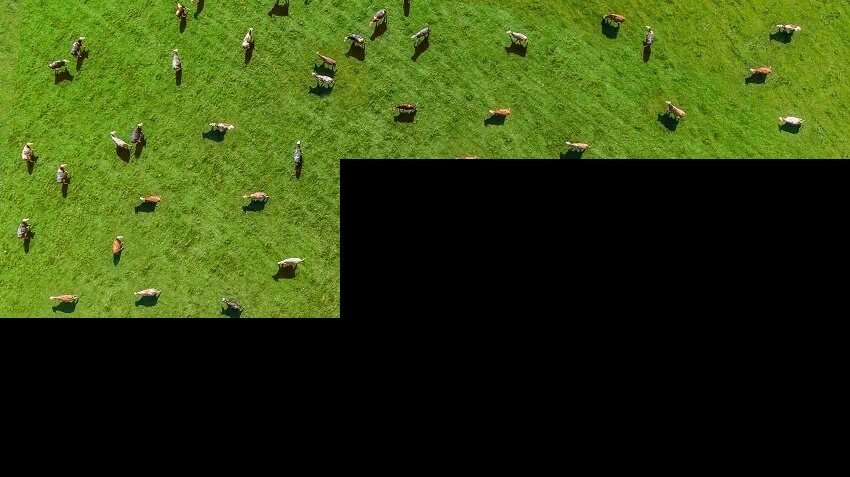
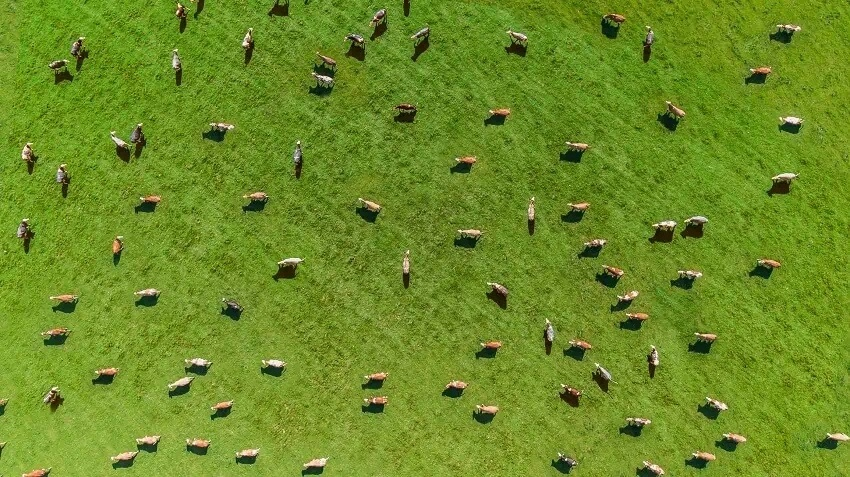
Final update

diff --git a/local_server.py b/local_server.py
@@ -10,20 +10,27 @@ Original file is located at
 
 #4.   Classe Local_server: """
 
+import csv
 import cv2
 from flask import Flask, render_template
 import numpy as np
+import os
 import pickle
 import socket
 import threading
 import time
 
-#HOST_IP = socket.gethostbyname(socket.gethostname()) # Use this if running on local network
-HOST_IP = "127.0.0.1" # Use this if testing via localhost
-HOST_PORT = 12345
+DW_PATH = "datawarehouse.csv"
 FINALIMG_HEIGHT = 477
 FINALIMG_WIDTH = 850
 FINALIMG_CHANNELS = 3
+
+#HOST_IP = socket.gethostbyname(socket.gethostname()) # Use this if running on local network
+HOST_IP = "127.0.0.1" # Use this if testing via localhost
+HOST_PORT = 12345
+
+TILE_ROWS = 3
+TILE_COLUMNS = 5
 
 def tprint(lock, message): # Just so different threads don't mess up stdout when printing
     lock.acquire()
@@ -39,7 +46,6 @@ class LocalServer:
         self.host_socket = socket.socket(family = socket.AF_INET, type = socket.SOCK_STREAM)
         self.host_socket.bind((host, port))
 
-        #self.clients = allowed_clients # Might not be necessary
         self.sockets = {} # Creates dictionary mapping client IP addresses to the threads handling their respective sockets
         self.keep_listening = True # Controls whether or not to keep listening for new connections/data transmissions
 
@@ -48,8 +54,8 @@ class LocalServer:
 
         self.frames = {} # Initializes frame dict from clients
         self.stitched_image = np.zeros((FINALIMG_HEIGHT, FINALIMG_WIDTH, FINALIMG_CHANNELS), dtype = "uint8")
-        self.image_nrows = 3
-        self.image_ncolumns = 5
+        self.image_nrows = TILE_ROWS
+        self.image_ncolumns = TILE_COLUMNS
 
         self.model = model
 
@@ -58,7 +64,7 @@ class LocalServer:
         print("Local_server instance initialized.")
 
     def listen(self):
-        # Asynchronous method
+        # Threaded method
 
         while self.keep_listening is True:
             tprint(self.print_lock, "[LISTEN] Listening for connections...")
@@ -69,8 +75,7 @@ class LocalServer:
             self.sockets[address] = threading.Thread(target = self.receive_data, args = (connection, address))
             tprint(self.print_lock, f"[LISTEN] Created thread to handle {address} connection: {self.sockets[address]}")
             self.sockets[address].start() # Creates and starts new thread to handle connection
-
-            break # Stays here just while testing
+            
         tprint(self.print_lock, "[LISTEN] Stopped listening for connections.")
 
         addresses = list(self.sockets.keys())
@@ -81,7 +86,7 @@ class LocalServer:
         print("[LISTEN] All connection threads closed.")
 
     def receive_data(self, sock, address):
-        # Asynchronous method
+        # Threaded method
         close_connection = False
         peer = sock.getpeername()
         while (self.keep_listening is True) and (close_connection is False):
@@ -122,9 +127,6 @@ class LocalServer:
 
                 elif dtype.decode("utf-8") == "IMG": # Is image?
                     data = pickle.loads(rawdata, fix_imports = True, encoding = "bytes")
-                    #imdecode = cv2.imdecode(data, cv2.IMREAD_COLOR)
-                    #data = np.fromstring(rawdata, dtype = "uint8")
-                    #imdecode = cv2.imdecode(data, cv2.IMWRITE_JPEG_QUALITY)
                     message["IMG"] = data#imdecode
                     sock.sendall("ACK ".encode("utf-8"))
 
@@ -152,47 +154,51 @@ class LocalServer:
         socket.close()
 
     def stitch_images(self):
-        self.threading_lock.acquire()
+        self.threading_lock.acquire() # Acquires lock to read data
         keys = list(self.frames.keys())
-        tprint(self.print_lock, str(keys))
-        for key in keys:
+        for key in keys: # Calculates frame position based on GEO
             tile = self.frames[key]
             tile_shape = tile.shape
             starting_y = int(key[0]) * tile_shape[0]
             starting_x = int(key[1]) * tile_shape[1]
             ending_y = starting_y + tile_shape[0]
             ending_x = starting_x + tile_shape[1]
-            self.stitched_image[starting_y : ending_y, starting_x : ending_x] = tile
-        self.threading_lock.release()
-        cv2.imshow("stitched_image", self.stitched_image)
-        cv2.waitKey()
-        cv2.imwrite("webserver\\webserver_image.jpg", self.stitched_image)
+            self.stitched_image[starting_y : ending_y, starting_x : ending_x] = tile # Places frame in its place
+        self.threading_lock.release() # Releases lock once data has been read
+        cv2.imwrite("webserver\\webserver_image.jpg", self.stitched_image) # Saves resulting image so webservice can use it
 
-    def get_inferences(self, geo, image):
+    def get_inferences(self, geo):
         self.threading_lock.acquire()
-        self.inferences[geo] = self.model.predict(image)
+        image = self.frames.get(geo)
+        self.inferences[geo] = self.model.predict(image) # Gets predictions from model
         self.threading_lock.release()
-        #print(predictions)
 
-    def dump2datawarehouse(self, image, inferences):
-        pass
-    #def send_data(self): # WIP
-    #    pass
+    def dump2datawarehouse(self, geo):
+        self.threading_lock.acquire()
+        image = self.frames.get(geo)
+        inferences = self.inferences.get(geo)
+        self.threading_lock.release()
+        if image is None: # Checks if parameters are valid
+            return False
+        if inferences is None:
+            self.get_inferences(geo)
+            inferences = self.inferences.get(geo)
+        if not os.path.exists(DW_PATH):
+            with open(DW_PATH, mode = "w") as file: # If file doesn't exist
+                pass # Create file and add header
+        # Saves image and appends its path to the csv file alongside its inferences
+        return True
+        
 
     def mainloop(self):
-        #pass
         listening_thread = threading.Thread(target = self.listen)
         listening_thread.start()
 
         while self.keep_listening:
-            time.sleep(2)
+            time.sleep(2) # Delay while waiting for new images
             self.stitch_images()
-            if len(self.frames) == 15:
-                self.keep_listening = False
-
-        #address = list(self.sockets.keys())[0]
-        #self.receive_data(self.sockets[address], address)
-
+            if len(self.frames) == TILE_ROWS * TILE_COLUMNS:
+                self.keep_listening = False # Once all images have been received, stop
 
 app = Flask(__name__, template_folder = "webserver")
 
@@ -204,9 +210,11 @@ def home():
 if __name__ == "__main__":
     print("Running...")
     testserver = LocalServer("model")
+    # Initializes webservice on new thread
+    flaskthread = threading.Thread(target = app.run)
+    flaskthread.start()    
+    # Initializes server mainloop
     testserver.mainloop()
 
-    flaskthread = threading.Thread(target = app.run)
-    flaskthread.start()
     flaskthread.join()
     print("End.")

diff --git a/drones.py b/drones.py
@@ -33,7 +33,7 @@ FILES = ["drone_images\\00.jpg",
          "drone_images\\22.jpg",
          "drone_images\\23.jpg",
          "drone_images\\24.jpg"]
-#FILES = [os.path.abspath(file) for file in FILES]
+
 #HOST_IP = "PASTE HOST IPv4" # Use this if running on local network
 # or use socket.gethostbyname(socket.gethostname()) if running locally
 HOST_IP = "127.0.0.1" # Use this if testing via localhost
@@ -52,7 +52,7 @@ class DroneT0:
 
         self.break_mainloop = False
 
-        self.files = FILES# Image files that we will load and send to the server to test if everything is working
+        self.files = FILES # Image files that we will load and send to the server to test if everything is working
 
         print("DroneT0 instance initialized.")
 
@@ -98,7 +98,6 @@ class DroneT1(DroneT0):
         self.host = host
         self.port = port
         self.socket = socket.socket(family = socket.AF_INET, type = socket.SOCK_STREAM)
-        #self.socket.connect()
 
         print("DroneT1 instance initialized.")
 
@@ -106,23 +105,13 @@ class DroneT1(DroneT0):
         self.socket.connect((self.host, self.port))
 
     def send_data(self):
-        """
-        self.socket.sendall(b"Test1")
-        data = self.socket.recv(1024)
-        print(f"Received {data!r}")
-        """
-
         # Prepare image to be sent
         print("[SEND_DATA] Encoding image...")
         geo, frame = self.frames.popitem()
         encode_param = [int(cv2.IMWRITE_JPEG_QUALITY), 90]
-        #result, imencode = cv2.imencode(".jpg", frame, encode_param)
         imgdata = pickle.dumps(frame, 0)
         img = pickle.loads(imgdata,fix_imports = True, encoding = "bytes")
-        #cv2.imshow("", img)
-        #cv2.waitKey()
-        #imdata = np.array(imencode, dtype = "uint8")
-        #str_imdata = imdata.tostring()
+
         print("[SEND_DATA] Image encoded.")
 
         message = [("GEO", geo),
@@ -131,7 +120,6 @@ class DroneT1(DroneT0):
         if self.send_inferences is True:
             data = np.array(self.inferences.get(geo))
             infdata = pickle.dumps(data, 0)
-            #str_infdata = infdata.tostring()
             message.append(("INF", infdata))
 
         # Send data with custom application protocol
@@ -196,7 +184,6 @@ class DroneT2(DroneT1):
         for geo in self.frames:
             if self.inferences.get(geo) is None: # Is there an image that hasn't been processed yet?
                 self.inferences[geo] = self.model.predict(self.frames[geo])
-        #self.frames = []
 
     def mainloop(self):
         self.set_connection()
@@ -210,7 +197,5 @@ class DroneT2(DroneT1):
 if __name__ == "__main__":
     print("Running...")
     test1 = DroneT1()
-    #test2 = DroneT2(None)
-    #print(f"{test1.send_inferences} {test2.send_inferences}")
     test1.mainloop()
     print("End.")
